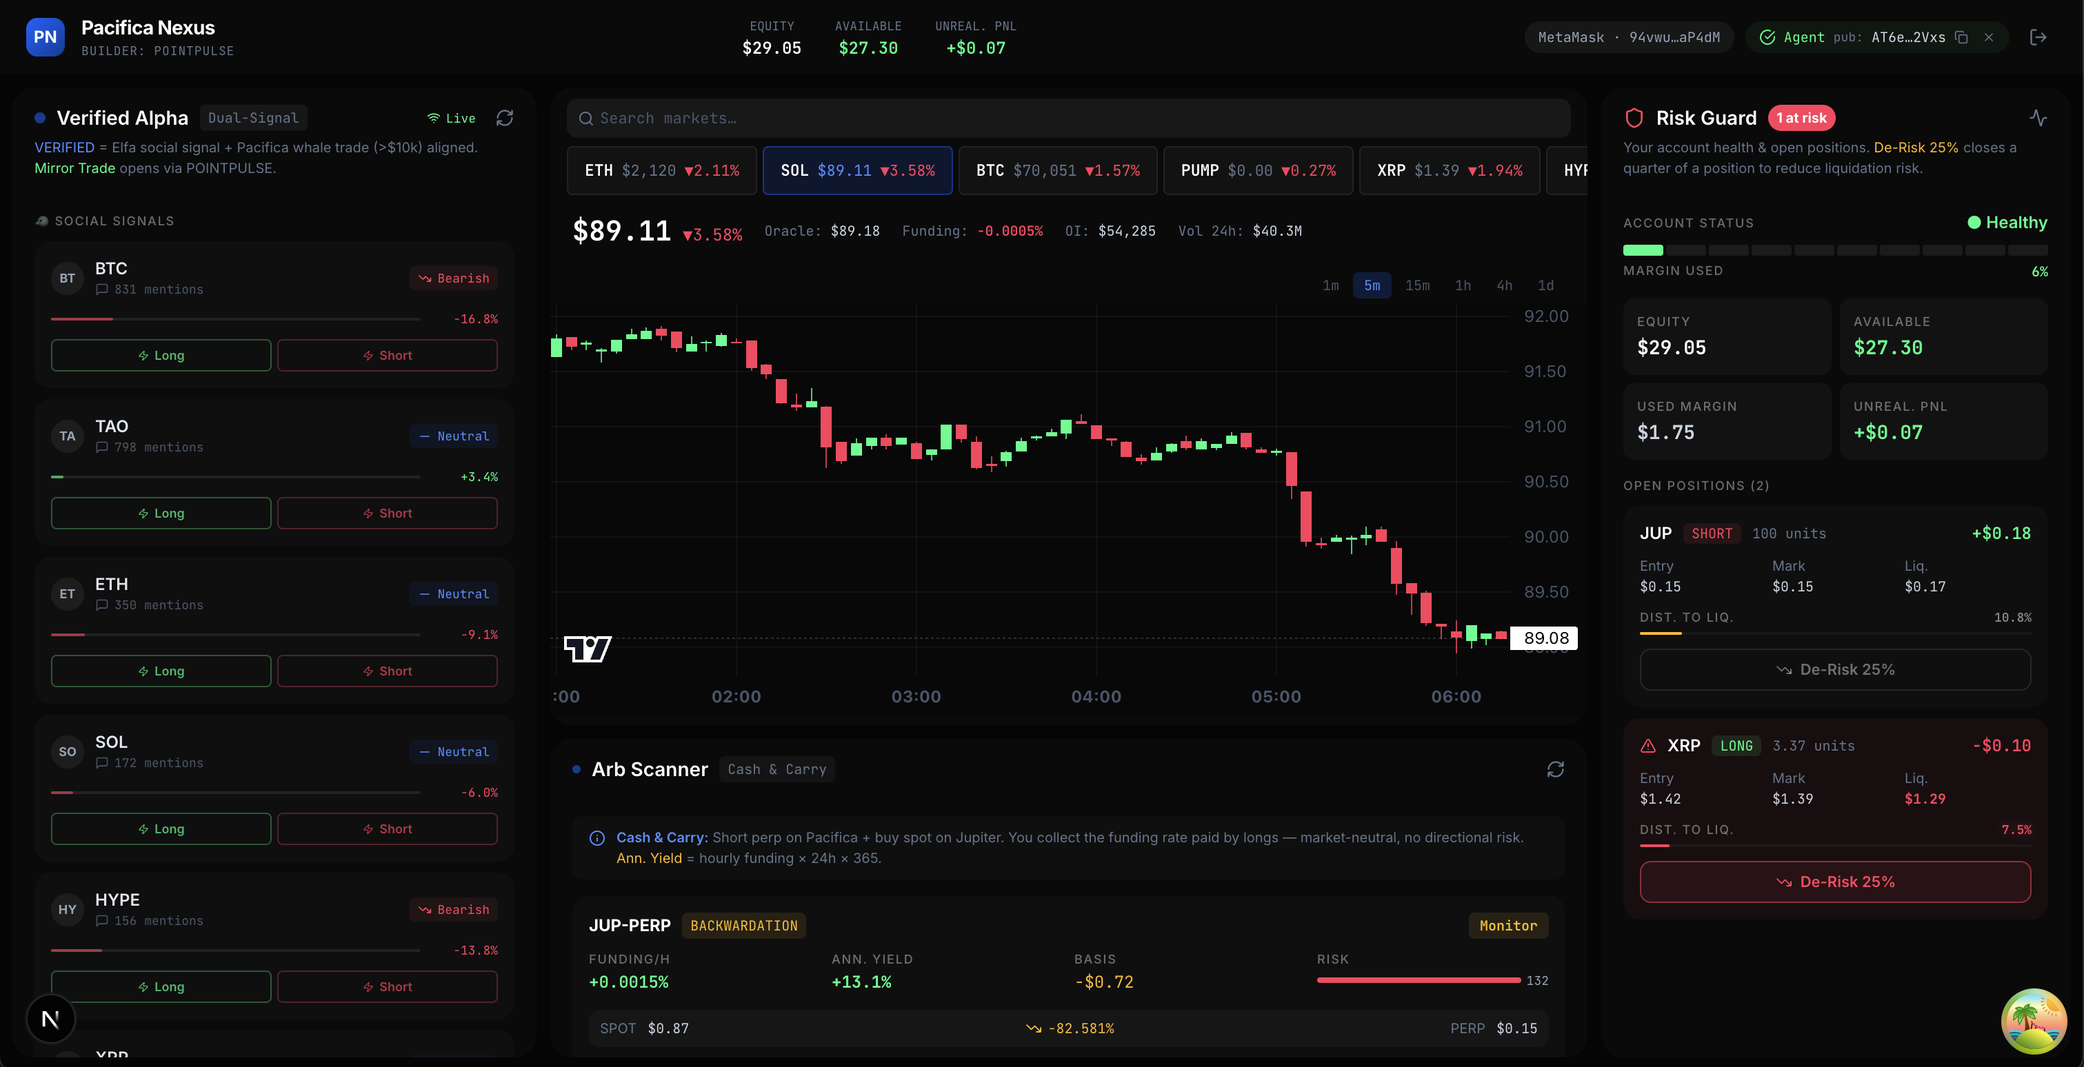
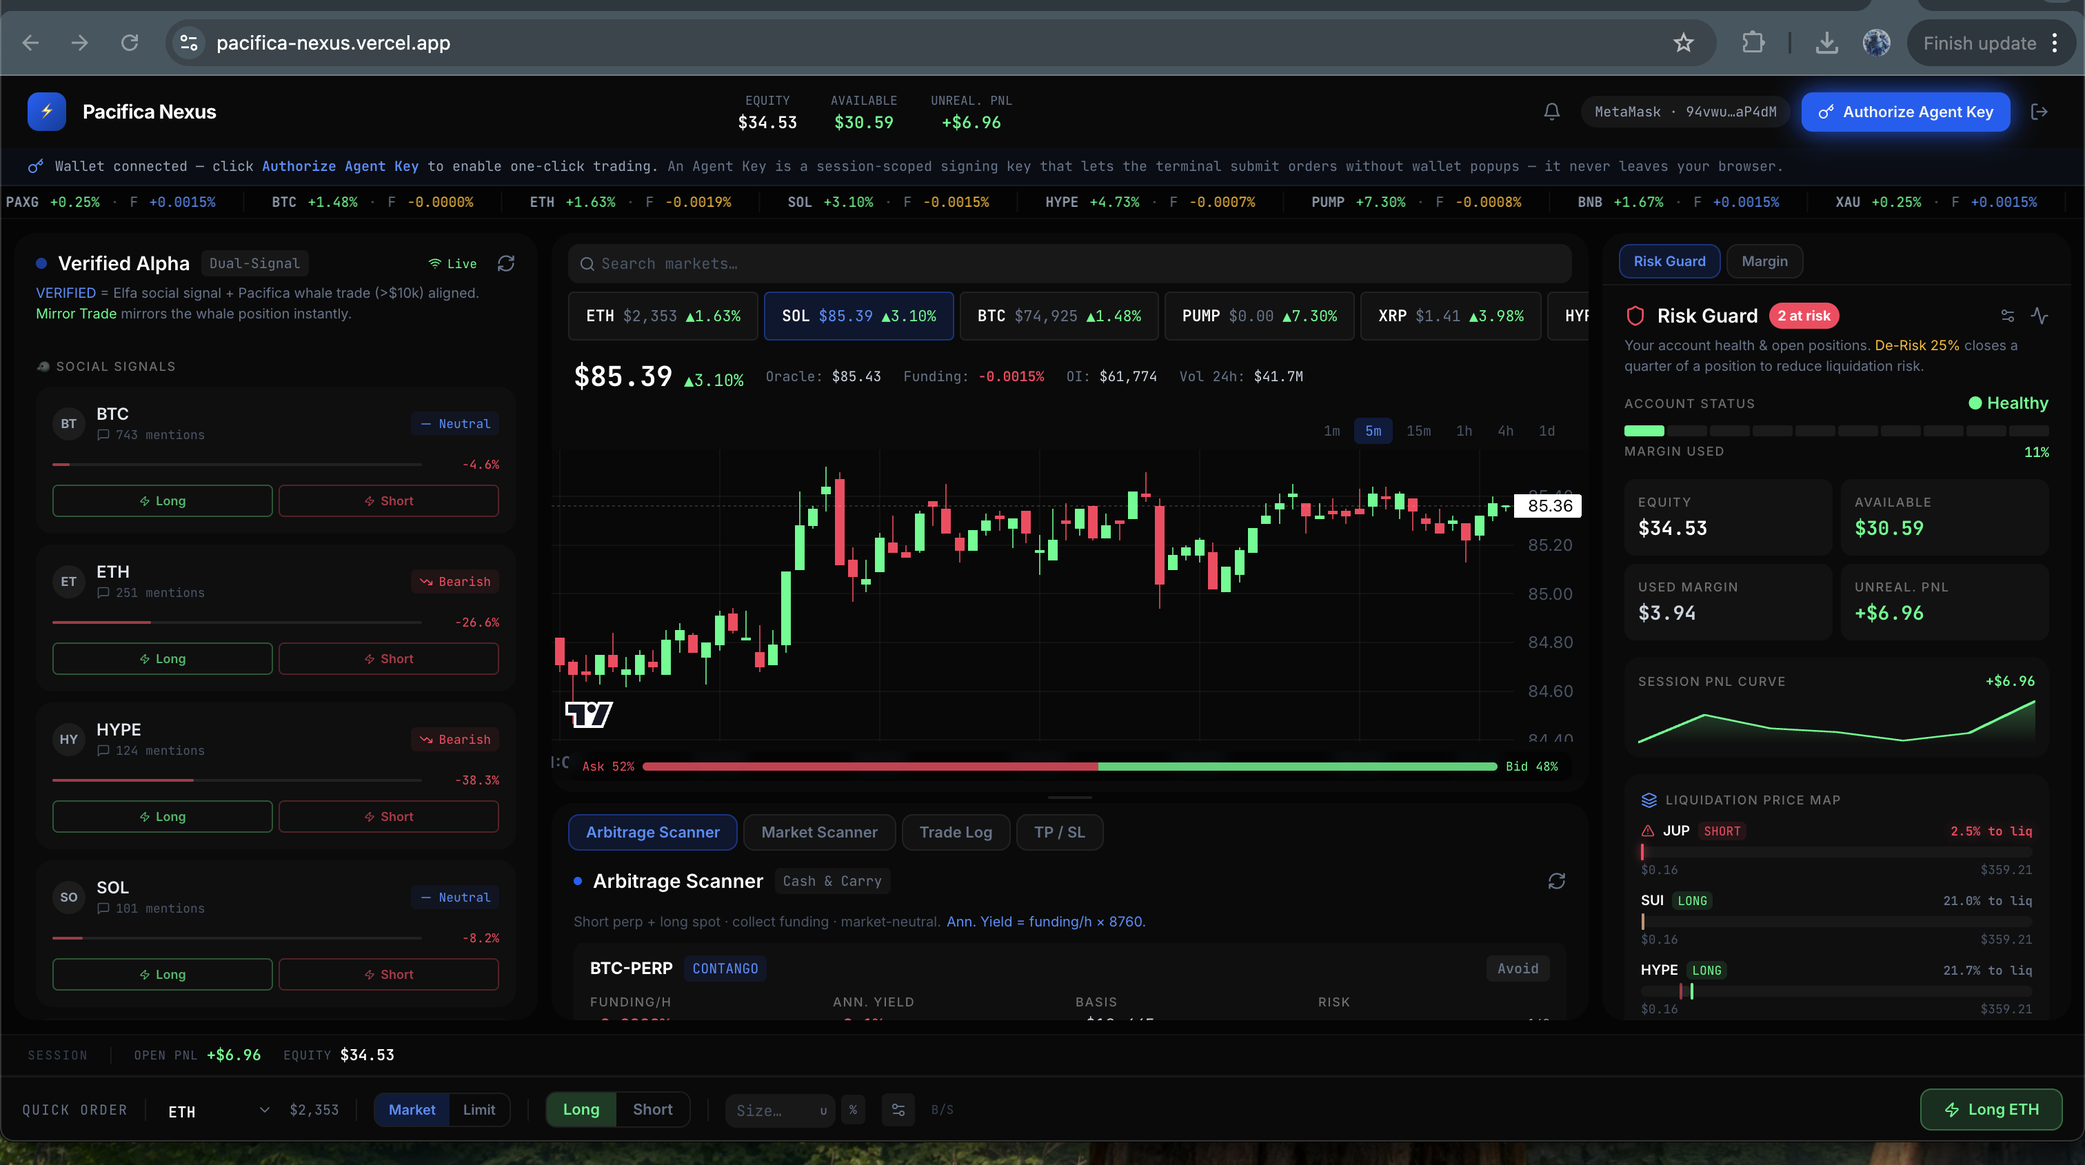
update readme

diff --git a/README.md b/README.md
@@ -4,9 +4,7 @@
 
 ## What Is This?
 
-Pacifica Nexus is a **professional trading terminal** built on top of the Pacifica Perpetual DEX on Solana. It is designed for traders who want more signal and less noise — combining real-time perpetual market data, large-trade whale detection, social trend analysis, and automated funding-rate arbitrage discovery into a single glassmorphic interface.
-
-Built for the **Pacifica Hackathon** under builder code **POINTPULSE**.
+Pacifica Nexus is a **professional trading terminal** built on top of the Pacifica Perpetual DEX on Solana. It is designed for traders who want more signal and less noise — combining real-time perpetual market data, large-trade whale detection, social trend analysis, automated funding-rate arbitrage discovery, and intelligent risk management into a single glassmorphic interface.
 
 ---
 
@@ -27,8 +25,9 @@ Built for the **Pacifica Hackathon** under builder code **POINTPULSE**.
 - Searchable market tabs — all Pacifica perp markets, scrollable with live mark price and 24h change.
 - Stats row: mark price, oracle price, funding rate, open interest, 24h volume.
 - Mouse drag to pan, scroll to zoom, touch pinch supported.
+- **Orderbook Imbalance Bar**: Live bid/ask pressure overlay at the bottom of the chart. Powered by the Pacifica WebSocket orderbook channel (top-20 levels, updates every ~250 ms). The red segment = ask volume share; green segment = bid volume share. A wide red bar means more sell-side liquidity; a wide green bar means more buy-side pressure.
 
-### Arb Scanner (Center — Bottom)
+### Arbitrage Scanner (Center — Bottom, "Arbitrage Scanner" Tab)
 
 - **Cash & Carry Strategy**: Identifies funding rate arbitrage opportunities across all Pacifica markets.
 - Compares Pacifica perpetual funding rates against Jupiter spot prices.
@@ -37,13 +36,37 @@ Built for the **Pacifica Hackathon** under builder code **POINTPULSE**.
 - APY > 15% shown with neon green glow for instant visibility.
 - One-click hedge: shorts the perp on Pacifica + opens Jupiter in a new tab for the spot leg.
 
+### Market Scanner (Center — Bottom, "Market Scanner" Tab)
+
+- Sortable table of all Pacifica markets with mark price, 24h change, funding rate, open interest, volume.
+- Color-coded funding: green = positive (longs pay), red = negative (shorts pay).
+
+### Trade Log (Center — Bottom, "Trade Log" Tab)
+
+- Real-time feed of your filled orders and position changes.
+- Timestamp, symbol, direction, size, and fill price for each event.
+
+### Smart TP/SL Manager (Center — Bottom, "TP / SL" Tab)
+
+- Per-position bracket order management: view and manage take-profit and stop-loss orders.
+- **Trailing Stop**: Set a trail percentage — the SL automatically ratchets up (for longs) or down (for shorts) as the market moves in your favour. The trail fires a cancel + replace reduce-only limit order when the price moves beyond the watermark.
+- **Breakeven Button**: Instantly moves your SL to your entry price, locking in a scratch trade.
+
 ### Risk Guard (Right Panel)
 
 - Real-time account health with a 10-segment color-coded margin bar (green → amber → red).
 - Per-position breakdown: entry price, mark price, liquidation price, unrealized P&L.
 - Distance-to-liquidation progress bar with red glow when < 10% away.
-- **De-Risk 25%**: One-click reduce-only order that trims 25% of any endangered position.
-- Positions at risk pulse with a danger-colored card background.
+- **Auto De-Risk**: Set a liquidation-distance threshold (e.g., 15%). When any position's distance to liq drops below it, a 25% reduce-only market order fires automatically. A "Set" button prevents accidental threshold changes — the rule only activates when you click Set or press Enter. Cooldown: 10 s per position to prevent runaway orders. Lot-size-aware: only fires if the calculated trim is ≥ 1 lot.
+- **Margin Efficiency tab**: Per-position margin share bar (green < 40%, amber 40–60%, red > 60%), efficiency score (`|PnL| / margin × 100`), and plain-English recommendations for overconcentration.
+
+### Quick Order Bar (Bottom)
+
+- Always-visible fast-entry bar for any market.
+- **Market / Limit toggle**: Switch between market orders and limit orders with a price input.
+- **Size mode**: Enter size in units (e.g., 0.5 SOL) or as a percentage of your available equity.
+- **TP / SL inputs**: Collapsible row to attach take-profit and stop-loss to the order at creation time (bracket orders placed as reduce-only limits).
+- **Keyboard shortcuts**: Press `B` to pre-fill Long, `S` to pre-fill Short, `Esc` to dismiss the confirmation modal.
 
 ---
 
@@ -60,20 +83,29 @@ Built for the **Pacifica Hackathon** under builder code **POINTPULSE**.
            │
            ├── AlphaFeed ← useWhaleStream
            │                  ├── Elfa AI REST (60s poll, 10min TTL)
-           │                  └── Pacifica WebSocket (live, $10k+ filter)
+           │                  └── Pacifica WS singleton (live, $10k+ filter)
            │
            ├── PriceChart ← usePacifica (markets)
+           │              ← useOrderbookStream (WS singleton, 250ms)
            │                  └── Pacifica REST /kline (10–30s poll)
            │
            ├── ArbScanner ← useArbScanner
            │                  ├── Pacifica REST /info/prices (3s poll)
            │                  └── Jupiter Price API (3s poll)
            │
+           ├── TpSlManager ← usePacifica + useTrailingStopStore
+           │                  └── Trailing stop: cancel+replace SL on watermark
+           │
            └── RiskGuard ← usePacifica
                               ├── /positions (3s poll)
                               ├── /account (5s poll)
-                              └── POST /orders/create_market (De-Risk)
+                              ├── POST /orders/create_market (Auto De-Risk)
+                              └── MarginEfficiency (per-pos margin share)
 ```
+
+### Shared WebSocket Singleton
+
+All real-time hooks (`useWhaleStream`, `useOrderbookStream`) share **one** WebSocket connection to `wss://ws.pacifica.fi/ws` via `src/lib/pacifica-ws.ts`. This prevents duplicate connections and handles reconnect with exponential backoff (2 s → 30 s max) and a 30 s ping heartbeat.
 
 ### Data Flow
 
@@ -90,10 +122,18 @@ User connects wallet → imports agent key (base58) from app.pacifica.fi/apikey
 
 ```
 User clicks Confirm
-  → buildSignedBody("create_market_order", payload, agentKeypair)
-  → POST /orders/create_market { symbol, side, amount, slippage, builder_code: "Pacifica-Nexus" }
+  → buildSignedBody("create_market_order" | "create_order", payload, agentKeypair)
+  → POST /orders/create_market or /orders/create
   → Response: { order_id }
   → React Query invalidates positions + orders + health → UI updates
+```
+
+**Bracket Orders (TP/SL):**
+
+```
+Main order confirmed → order_id returned
+  → place TP: reduce-only limit at tpPrice (opposite side)
+  → place SL: reduce-only limit at slPrice (opposite side)
 ```
 
 **Whale Matching:**
@@ -102,6 +142,17 @@ User clicks Confirm
 Elfa API trending token → AlphaSocialSignal (sentimentScore, volumeScore)
 Pacifica WS trade event → WhaleEvent if notional ≥ $10,000
 tryMatch(): signal.direction === whale.side? → VerifiedAlpha (confidence score)
+```
+
+**Orderbook Imbalance:**
+
+```
+WS subscribe { source: "book", symbol, agg_level: 100 }
+  → data.l = [[bids], [asks]] each level { a: amount, p: price, n: count }
+  → bidVolume = sum top-20 bid amounts
+  → askVolume = sum top-20 ask amounts
+  → imbalance = (bidVolume - askVolume) / (bidVolume + askVolume)   [-1, +1]
+  → bar width: ask = (1 - imbalance)/2 × 100%, bid = (1 + imbalance)/2 × 100%
 ```
 
 ---
@@ -113,7 +164,7 @@ tryMatch(): signal.direction === whale.side? → VerifiedAlpha (confidence score
 | Framework        | Next.js 14 (App Router, `force-dynamic`)            |
 | UI               | React 18, Tailwind CSS 3, Lucide Icons              |
 | Charts           | Lightweight Charts 4 (TradingView)                  |
-| State / Fetching | TanStack React Query 5                              |
+| State / Fetching | TanStack React Query 5, Zustand                     |
 | Wallet           | Solana Wallet Adapter (Phantom, MetaMask, Solflare) |
 | Signing          | TweetNaCl + bs58 (agent keypair signing)            |
 | Social Data      | Elfa AI v2 API                                      |
@@ -137,28 +188,39 @@ tryMatch(): signal.direction === whale.side? → VerifiedAlpha (confidence score
 │   │   │   ├── QueryProvider.tsx
 │   │   │   └── SolanaWalletProvider.tsx
 │   │   └── terminal/
-│   │       ├── NexusDashboard.tsx    # Three-column grid layout
+│   │       ├── NexusDashboard.tsx    # Three-column grid layout, resizable divider
 │   │       ├── SessionBar.tsx        # Header: wallet + agent key
 │   │       ├── AlphaFeed.tsx         # Left: dual-signal alpha cards
-│   │       ├── PriceChart.tsx        # Center top: candlestick chart
-│   │       ├── ArbScanner.tsx        # Center bottom: funding arb
-│   │       ├── RiskGuard.tsx         # Right: positions + health
-│   │       └── TradeConfirmModal.tsx # Trade confirmation dialog
+│   │       ├── PriceChart.tsx        # Center top: candlestick + OB imbalance bar
+│   │       ├── ArbScanner.tsx        # Center bottom tab: funding arb scanner
+│   │       ├── MarketScanner.tsx     # Center bottom tab: market overview table
+│   │       ├── TradeLog.tsx          # Center bottom tab: filled orders feed
+│   │       ├── TpSlManager.tsx       # Center bottom tab: bracket + trailing stops
+│   │       ├── RiskGuard.tsx         # Right: positions, auto de-risk, margin tab
+│   │       ├── MarginEfficiency.tsx  # Per-position margin share + efficiency score
+│   │       ├── QuickOrderBar.tsx     # Bottom: fast order entry with TP/SL + hotkeys
+│   │       ├── TradeConfirmModal.tsx # Trade confirmation dialog (lot-size presets)
+│   │       └── PortfolioSummaryBar.tsx
 │   │
 │   ├── hooks/
-│   │   ├── usePacifica.ts      # Core: markets, positions, trading
-│   │   ├── useArbScanner.ts    # Funding rate vs spot arb engine
-│   │   └── useWhaleStream.ts   # Dual-signal: Elfa + WS whales
+│   │   ├── usePacifica.ts        # Core: markets, positions, trading, auto de-risk
+│   │   ├── useArbScanner.ts      # Funding rate vs spot arb engine
+│   │   ├── useWhaleStream.ts     # Dual-signal: Elfa + WS whales (shared WS)
+│   │   └── useOrderbookStream.ts # Live OB imbalance via shared WS singleton
 │   │
 │   ├── lib/
-│   │   ├── pacifica-client.ts  # Pacifica REST API client (singleton)
+│   │   ├── pacifica-client.ts  # Pacifica REST API client (lot-size snapping, retry)
+│   │   ├── pacifica-ws.ts      # Shared singleton WebSocket (reconnect + ping)
 │   │   ├── elfa-client.ts      # Elfa AI API client
 │   │   ├── signing.ts          # Agent key import, keypair signing
 │   │   ├── privy.ts            # Privy config
 │   │   └── utils.ts            # formatUSD, formatPct, cn, truncateAddress
 │   │
+│   ├── stores/
+│   │   └── trailingStopStore.ts  # Zustand: per-position trailing stop state
+│   │
 │   └── types/
-│       └── index.ts            # All TypeScript types
+│       └── index.ts            # All TypeScript types (Market includes lotSize)
 │
 ├── public/
 │   └── image.png              # Terminal screenshot
@@ -183,7 +245,7 @@ tryMatch(): signal.direction === whale.side? → VerifiedAlpha (confidence score
 
 ```bash
 git clone https://github.com/gitshreevatsa/Pacifica-Nexus.git
-cd Pacifica-Hackathon
+cd Pacifica-Nexus
 npm install
 ```
 
@@ -208,7 +270,7 @@ NEXT_PUBLIC_PACIFICA_API_URL=https://api.pacifica.fi/api/v1
 NEXT_PUBLIC_JUPITER_PRICE_API=https://price.jup.ag/v6/price
 
 # ─── Builder Code (do not change) ────────────────────────────────────────────
-NEXT_PUBLIC_BUILDER_CODE=Pacifica-Nexus
+NEXT_PUBLIC_BUILDER_CODE=POINTPULSE
 ```
 
 | Variable                   | Where to get it                                           |
@@ -272,8 +334,9 @@ When you first load the terminal:
 - Click any **token tab** to switch markets.
 - Use **interval buttons** (1m, 5m, 15m, 1h, 4h, 1d) on the right.
 - **Drag** the chart to pan history. **Scroll** to zoom in/out.
+- **Orderbook Imbalance Bar** at the bottom: red = ask pressure, green = bid pressure. Percentages show each side's share of the top-20 level volume. A 70% green / 30% red bar means bids are dominating — potential upward pressure.
 
-### Arb Scanner (Center Bottom)
+### Arbitrage Scanner (Center Bottom — Arb tab)
 
 - Markets are sorted by annualized yield.
 - **APY > 15%** glows neon green — these are the best cash-and-carry opportunities.
@@ -282,12 +345,28 @@ When you first load the terminal:
   - The short perp order is placed on Pacifica automatically.
   - Jupiter opens in a new tab so you can buy the spot leg manually.
 
+### Smart TP/SL Manager (Center Bottom — TP / SL tab)
+
+- Lists all open positions with their current bracket orders.
+- **Trailing Stop**: Enable the toggle, enter a trail % (e.g., 2%), click Set. The system tracks the price watermark and automatically re-places the SL as the market moves in your favour.
+- **Breakeven**: Moves the SL to your entry price with one click — zero risk from that point.
+
 ### Risk Guard (Right)
 
 - The **margin bar** at the top shows your overall account health (green = safe, red = critical).
 - Each open position shows entry, mark, and liquidation prices.
 - The **Dist. to Liq.** bar shows how close you are to liquidation.
 - Click **De-Risk 25%** on any position to automatically reduce it by 25% (reduce-only market order).
+- **Auto De-Risk**: Enter a threshold distance (e.g., 15%), click **Set**. When any position's liq distance drops below the threshold, the terminal automatically trims 25% of that position. 10 s cooldown per position prevents repeated triggers.
+- Switch to the **Margin** tab to see per-position margin share and efficiency scores.
+
+### Quick Order Bar (Bottom)
+
+- Select a symbol, choose Long or Short, set size, click Submit.
+- **Market / Limit**: Toggle to limit mode and enter your target price.
+- **% of Equity**: Toggle size mode to enter size as a percentage of your available equity.
+- **TP / SL**: Expand the bracket row to attach take-profit and stop-loss prices.
+- **Keyboard Shortcuts**: Press `B` anywhere to jump to Long, `S` to jump to Short, `Esc` to close the confirmation modal.
 
 ---
 
@@ -299,7 +378,7 @@ All Pacifica API calls go through `src/lib/pacifica-client.ts`.
 
 | Endpoint                  | Purpose                                               |
 | ------------------------- | ----------------------------------------------------- |
-| `GET /info`               | Market metadata (tick size, leverage, min order size) |
+| `GET /info`               | Market metadata (tick size, leverage, lot size)       |
 | `GET /info/prices`        | Live mark prices, funding rates, open interest        |
 | `GET /kline`              | Historical candle data                                |
 | `GET /account?account=`   | Account equity and margin                             |
@@ -313,10 +392,17 @@ All Pacifica API calls go through `src/lib/pacifica-client.ts`.
 | `POST /agent/bind`                    | Main wallet | Register agent key (once)   |
 | `POST /account/builder_codes/approve` | Main wallet | Approve builder code (once) |
 | `POST /orders/create_market`          | Agent key   | Place market order          |
-| `POST /orders/create`                 | Agent key   | Place limit order           |
+| `POST /orders/create`                 | Agent key   | Place limit or bracket order|
 | `POST /orders/cancel`                 | Agent key   | Cancel order                |
 
-Signed requests include: `type`, `main_wallet`, `agent_wallet`, `timestamp`, `expiry`, `signature` (Ed25519 over sorted JSON).
+Signed requests include: `type`, `main_wallet`, `agent_wallet`, `timestamp`, `expiry`, `signature` (Ed25519 over sorted JSON). The `reduce_only` field is only included in the signed body when `true` — omitting it when false prevents signature mismatches.
+
+### WebSocket (Shared Singleton — `pacifica-ws.ts`)
+
+| Channel          | Subscribe payload                                                  | Purpose                         |
+| ---------------- | ------------------------------------------------------------------ | ------------------------------- |
+| `book`           | `{ method: "subscribe", source: "book", symbol, agg_level: 100 }` | Top-of-book levels every ~250ms |
+| `trades`/`fills` | `{ method: "subscribe", params: { channel: "trades" } }`          | Public trade feed for whale detection |
 
 ---
 
@@ -325,14 +411,20 @@ Signed requests include: `type`, `main_wallet`, `agent_wallet`, `timestamp`, `ex
 **Agent Keys over Wallet Popups**
 Every order goes through the agent keypair stored in `sessionStorage`. Users sign once to authorize the agent key, then trade without any wallet popups. The agent key can only trade — it cannot withdraw funds.
 
-**Builder Code (Pacifica-Nexus)**
-Every market order includes `builder_code: "Pacifica-Nexus"`. This enrolls users in Pacifica's builder rewards program. Approval is a one-time wallet signature.
+**Builder Code (POINTPULSE)**
+Every market order includes `builder_code: "POINTPULSE"`. This enrolls users in Pacifica's builder rewards program. Approval is a one-time wallet signature.
 
 **Dual-Signal Filter**
 Social signals without whale confirmation are displayed but clearly marked as unverified. This prevents acting on pure social noise. A trade is only surfaced as "Verified Alpha" when at least one $10k+ on-chain trade confirms the social direction.
 
 **Cash & Carry Neutrality**
 The arb scanner only suggests market-neutral positions — short the perp (collect funding), long the spot (delta hedge). There is no directional exposure. Risk scores account for basis spread volatility.
+
+**Shared WebSocket**
+A single WS connection is created at module load and shared by all hooks. This ensures the orderbook subscription and the whale feed use the same socket, preventing browser connection limits from being hit and making reconnect logic centralized.
+
+**Lot-Size Safety**
+All order amounts are snapped to the market's `lot_size` before signing. If the API rejects an order with a lot-size error, the client parses the correct lot size from the error message and retries once automatically.
 
 ---
 
@@ -352,8 +444,9 @@ npm run type-check   # TypeScript check (no emit)
 
 - The app uses `export const dynamic = "force-dynamic"` on the page — this prevents static pre-rendering which would break Privy initialization.
 - Agent keys are stored in `sessionStorage` — they are cleared when the browser tab is closed. This is intentional for security.
-- WebSocket reconnects with exponential backoff (2s → 30s max). Social signals continue working even if the WebSocket is offline.
+- WebSocket reconnects with exponential backoff (2s → 30s max). Social signals and orderbook data continue working independently — if one subscription drops, it is re-sent on reconnect.
 - All monetary values are in USD. Pacifica uses USDC as collateral.
+- The `reduce_only` field is excluded from signed payloads when `false` to prevent Ed25519 signature mismatches with the Pacifica API.
 
 ---
 
